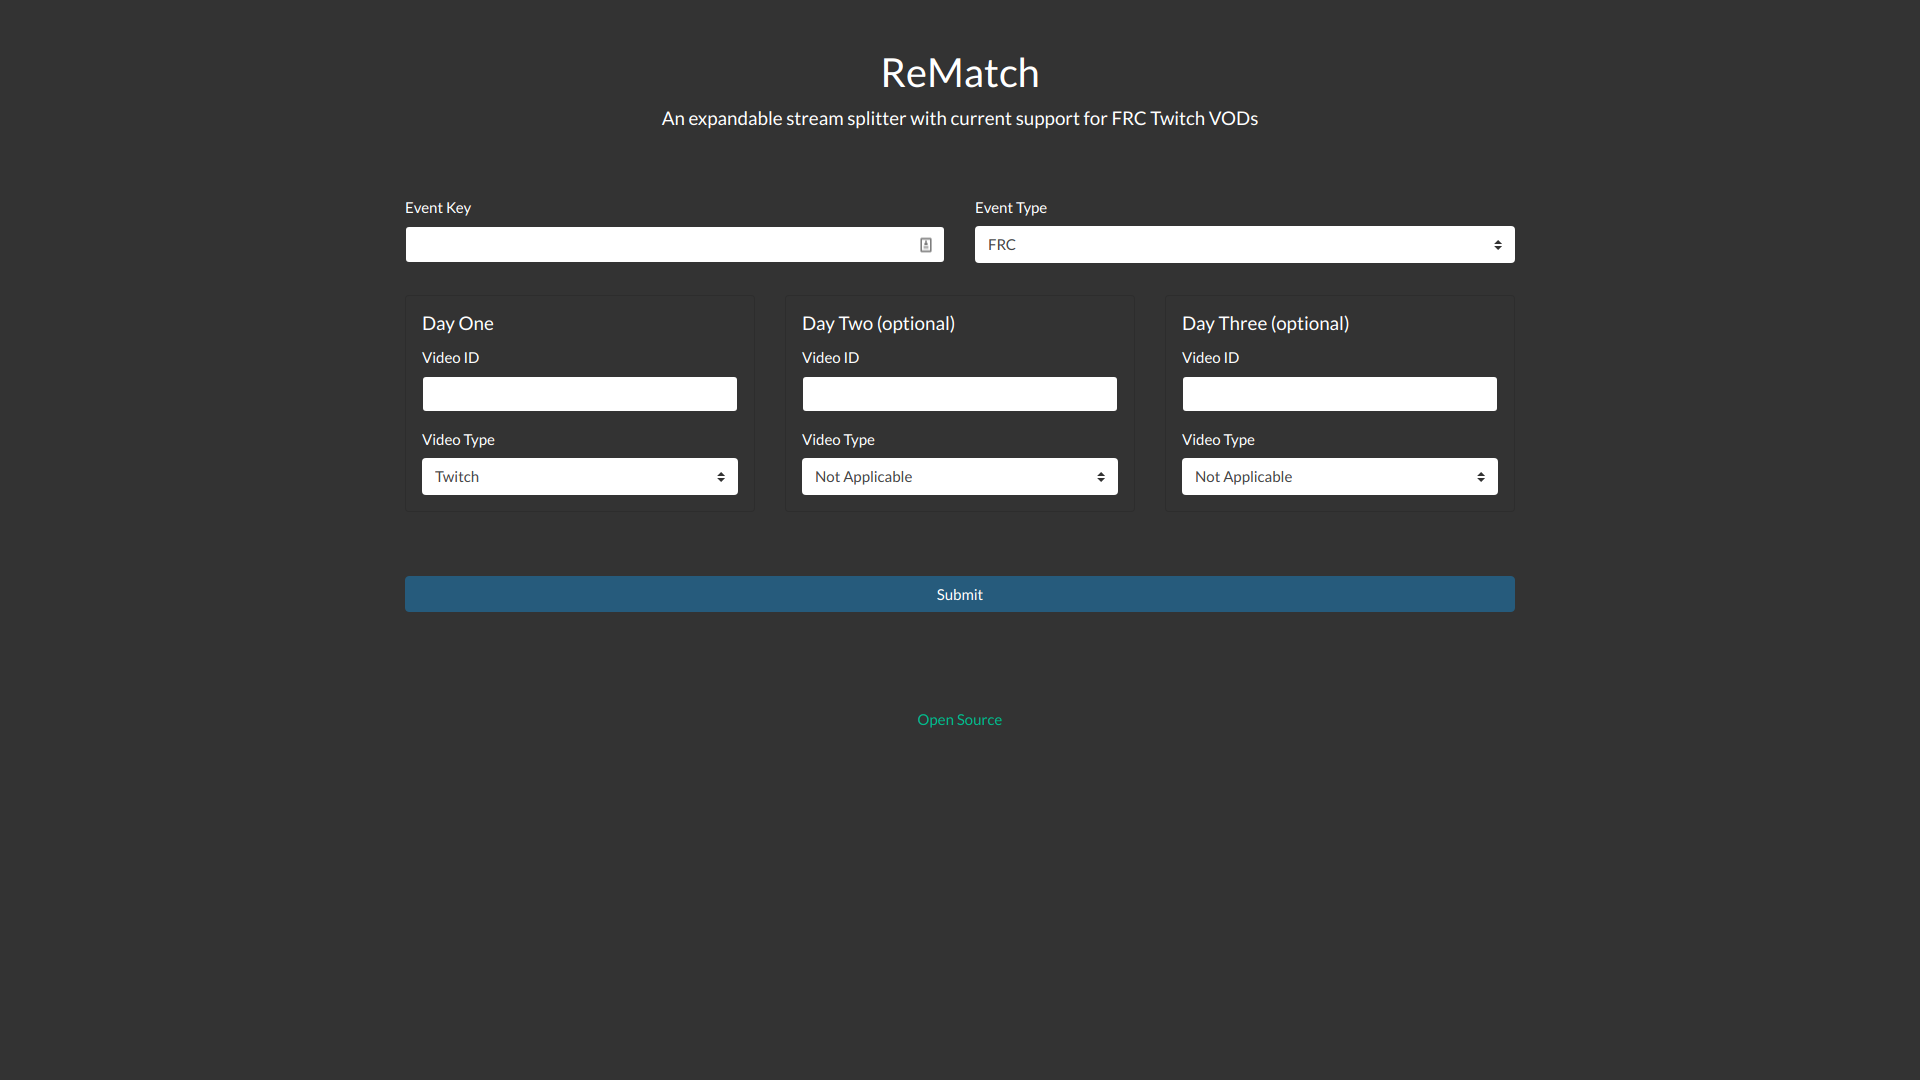
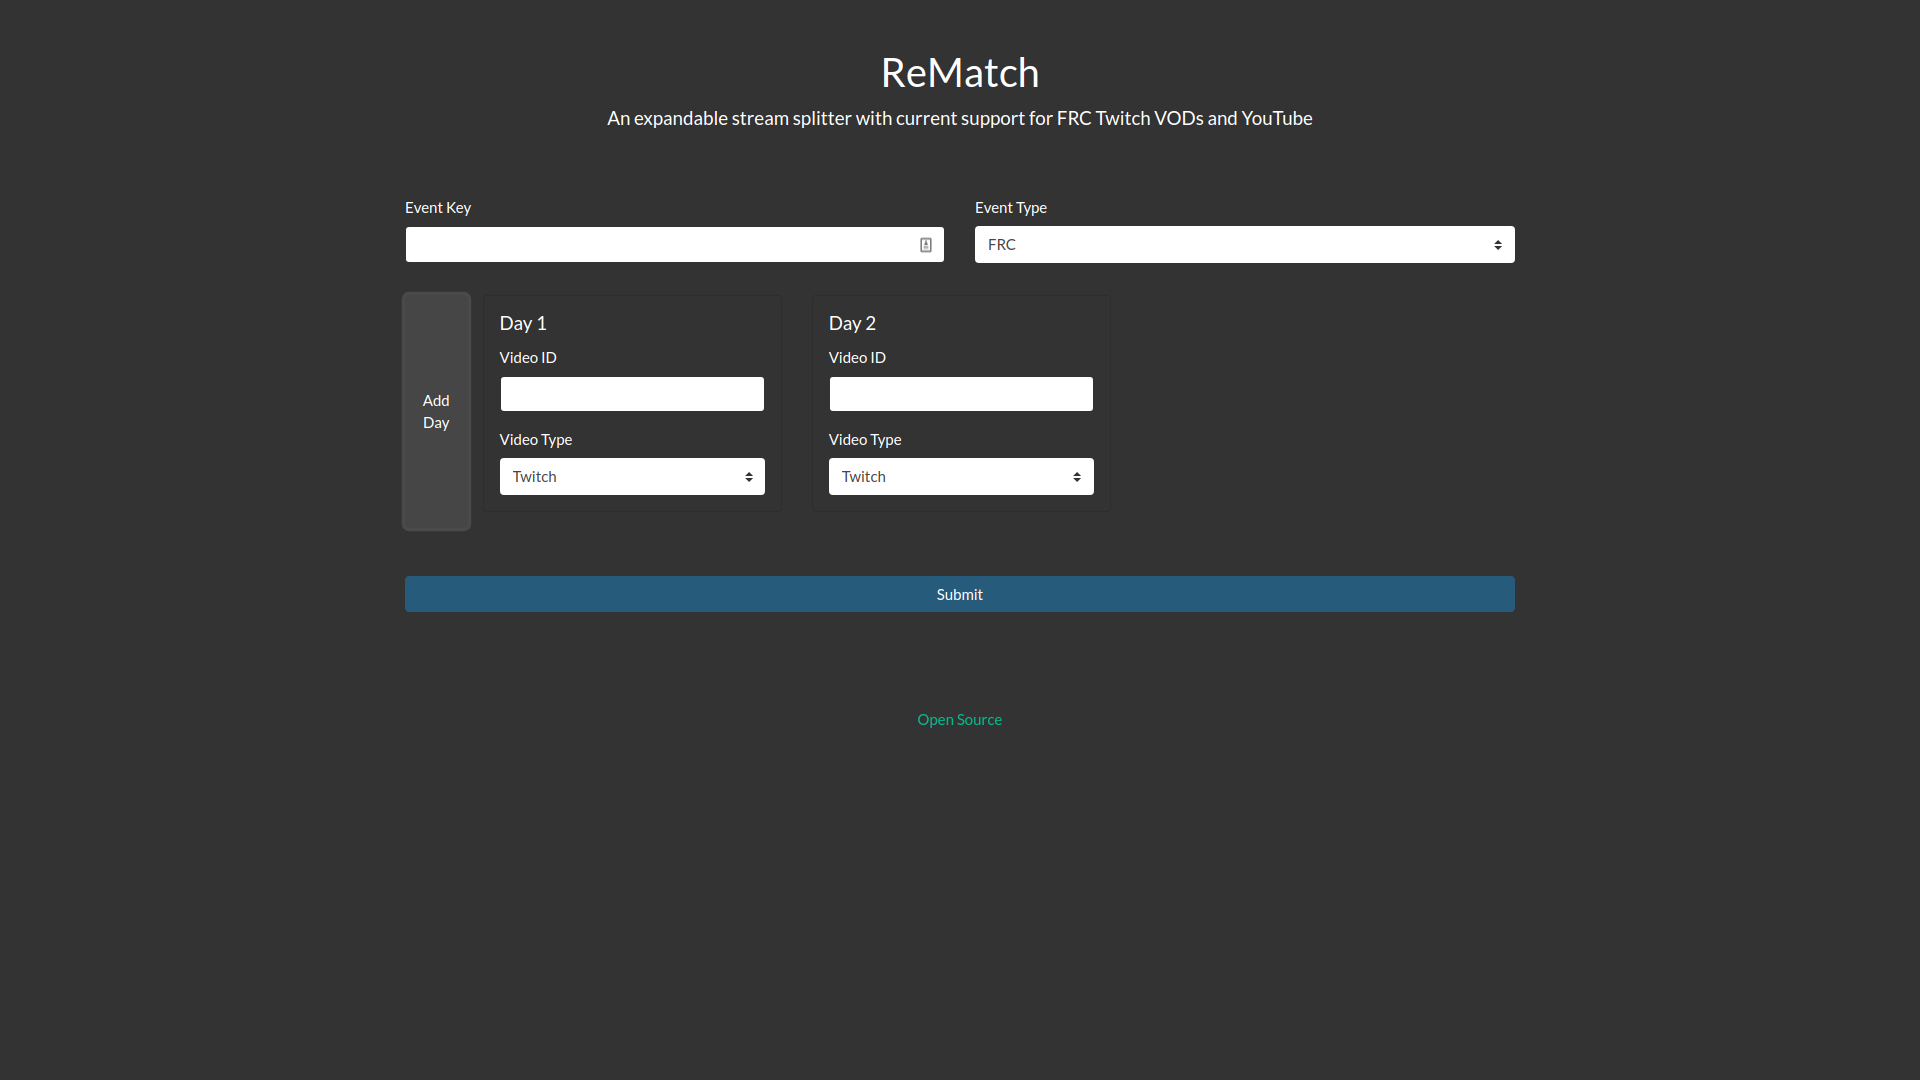
Update docs and tests

diff --git a/README.md b/README.md
@@ -20,17 +20,8 @@ In addition, you may need to take extra steps to set up for your inputs. If for 
 ## Usage
 There are multiple ways to use ReMatch. The simplest is to [fill out this form](https://tweirtx.github.io/rematch-request) and I'll get back to you as soon as I run the job.
 
-If you are self-hosting, there are two ways to start a run.
+If you are self-hosting, web control gives you a nice interface to the ReMatch backend. To start the web interface, open a terminal prompt and change to your ReMatch directory. Run `python3 web/web.py` to start the interface, then you can use it by browsing to localhost:5000.
 
-### Web Control
-Web control gives you a nice interface to the ReMatch backend. To start the web interface, open a terminal prompt and change to your ReMatch directory. Run `python3 web.py` to start the interface, then you can use it by browsing to localhost:5000.
-
-### Command Line Control
-Command line control is not the recommended way to do it, however if you would prefer it the option is available.
-
-First, open a terminal and change to your ReMatch directory.
-
-Run `python3 -m ReMatch (day one video ID) (day one video type) (event key) (event type)`. You can also fill in up to two more sets of videos and types if necessary. For the time being, only FRC is supported as the event type and only Twitch is supported for the video type.
 
 ## Limitations
 * Only Twitch VODs/YouTube stream archives are supported for the time being.
@@ -47,7 +38,7 @@ Run `python3 -m ReMatch (day one video ID) (day one video type) (event key) (eve
 ### People 
 tweirtx - Main developer
 
-ofekashery - Making the web control look way better
+ofekashery - Web front-end
 
 ## Libraries
 [tbapi](https://github.com/octocynth/tbapi): Python library for querying The Blue Alliance (FRC info)
